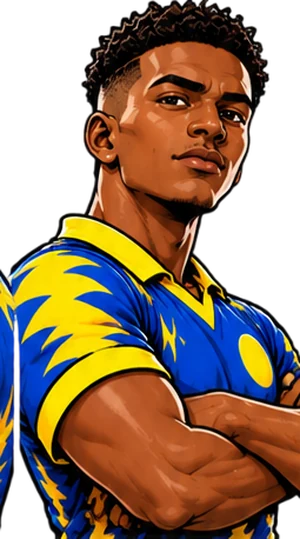
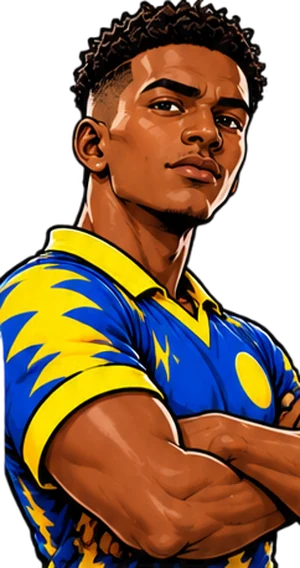
Super League portraits: batch 1 (Aryan Malhotra and nine Pakistani players)
The cutter now splits portraits drawn touching wherever they meet, and takes a single portrait
on its own sheet.

Claude-Session: https://claude.ai/code/session_01NK7tbrKg5PdA6fuyEUPXLd

diff --git a/js/portraits-list.js b/js/portraits-list.js
@@ -1,5 +1,5 @@
 // Players with a painted Super League card portrait (img/cards/portraits/<key>.webp).
 // Made by tools/build_portraits.py.
-export const PORTRAIT_KEYS = ['aamir-lodhi', 'aarav-nair', 'andre-belgrave', 'arjun-iyer', 'ashik-talukder', 'callum-fraser', 'corbin-hayes', 'dev-rana', 'dinesh-wickramasinghe', 'faisal-naqvi', 'fawad-bhatt', 'finn-gallagher', 'hamid-noorzai', 'henry-blackwood', 'jake-thornton', 'james-whitfield', 'jaspreet-dhillon', 'jermaine-alleyne', 'kunal-saini', 'liam-buckley', 'marlon-greaves', 'mitchell-doyle', 'oliver-hartley', 'rakibul-karim', 'rizwan-akram', 'rocky-van-wyk', 'shane-granger', 'siddharth-verma', 'sipho-nkosi', 'sunny-bhatia', 'tariq-mirza', 'tendai-moyo', 'thabo-mthembu', 'thunder-raja', 'yuvraj-sodhi', 'zubair-khan'];
+export const PORTRAIT_KEYS = ['aamir-lodhi', 'aarav-nair', 'andre-belgrave', 'arjun-iyer', 'aryan-malhotra', 'ashik-talukder', 'bilal-akhtar', 'bilawal-gul', 'callum-fraser', 'corbin-hayes', 'danish-haider', 'dev-rana', 'dinesh-wickramasinghe', 'faisal-naqvi', 'faraz-mirza', 'fawad-bhatt', 'finn-gallagher', 'hamid-noorzai', 'hamza-iqbal', 'henry-blackwood', 'jake-thornton', 'james-whitfield', 'jaspreet-dhillon', 'jermaine-alleyne', 'kunal-saini', 'liam-buckley', 'marlon-greaves', 'mitchell-doyle', 'nadir-sheikh', 'oliver-hartley', 'rakibul-karim', 'rizwan-akram', 'rocky-van-wyk', 'saad-ahmed', 'shane-granger', 'shoaib-raza', 'siddharth-verma', 'sipho-nkosi', 'sunny-bhatia', 'tariq-mirza', 'tendai-moyo', 'thabo-mthembu', 'thunder-raja', 'yasir-abbasi', 'yuvraj-sodhi', 'zubair-khan'];
 // how old each painted player looks: his Super League age in season 1
-export const PORTRAIT_AGE = {'thunder-raja': 25, 'jake-thornton': 23, 'dev-rana': 30, 'andre-belgrave': 29, 'sunny-bhatia': 29, 'zubair-khan': 30, 'rocky-van-wyk': 28, 'aamir-lodhi': 28, 'rakibul-karim': 20, 'hamid-noorzai': 27, 'jaspreet-dhillon': 29, 'sipho-nkosi': 27, 'james-whitfield': 31, 'oliver-hartley': 21, 'mitchell-doyle': 28, 'callum-fraser': 26, 'siddharth-verma': 22, 'arjun-iyer': 23, 'dinesh-wickramasinghe': 22, 'thabo-mthembu': 19, 'liam-buckley': 21, 'rizwan-akram': 22, 'finn-gallagher': 22, 'aarav-nair': 23, 'shane-granger': 23, 'kunal-saini': 21, 'faisal-naqvi': 31, 'fawad-bhatt': 30, 'marlon-greaves': 32, 'henry-blackwood': 33, 'yuvraj-sodhi': 30, 'tariq-mirza': 31, 'jermaine-alleyne': 29, 'tendai-moyo': 30, 'ashik-talukder': 29, 'corbin-hayes': 31};
+export const PORTRAIT_AGE = {'thunder-raja': 25, 'jake-thornton': 23, 'dev-rana': 30, 'andre-belgrave': 29, 'sunny-bhatia': 29, 'zubair-khan': 30, 'rocky-van-wyk': 28, 'aamir-lodhi': 28, 'rakibul-karim': 20, 'hamid-noorzai': 27, 'jaspreet-dhillon': 29, 'sipho-nkosi': 27, 'james-whitfield': 31, 'oliver-hartley': 21, 'mitchell-doyle': 28, 'callum-fraser': 26, 'siddharth-verma': 22, 'arjun-iyer': 23, 'dinesh-wickramasinghe': 22, 'thabo-mthembu': 19, 'liam-buckley': 21, 'rizwan-akram': 22, 'finn-gallagher': 22, 'aarav-nair': 23, 'shane-granger': 23, 'kunal-saini': 21, 'faisal-naqvi': 31, 'fawad-bhatt': 30, 'marlon-greaves': 32, 'henry-blackwood': 33, 'yuvraj-sodhi': 30, 'tariq-mirza': 31, 'jermaine-alleyne': 29, 'tendai-moyo': 30, 'ashik-talukder': 29, 'corbin-hayes': 31, 'aryan-malhotra': 28, 'faraz-mirza': 28, 'saad-ahmed': 27, 'yasir-abbasi': 33, 'hamza-iqbal': 19, 'shoaib-raza': 29, 'bilawal-gul': 29, 'danish-haider': 25, 'nadir-sheikh': 35, 'bilal-akhtar': 22};

diff --git a/tools/build_portraits.py b/tools/build_portraits.py
@@ -36,6 +36,10 @@ PICK = {
     'faisal-naqvi': (5, 1, 31), 'fawad-bhatt': (5, 3, 30), 'marlon-greaves': (5, 4, 32), 'henry-blackwood': (5, 5, 33),
     'yuvraj-sodhi': (5, 6, 30), 'tariq-mirza': (5, 8, 31), 'jermaine-alleyne': (6, 2, 29), 'tendai-moyo': (6, 7, 30),
     'ashik-talukder': (6, 9, 29), 'corbin-hayes': (6, 10, 31),
+    # sheet 7: batch 1 of the missing players (its #7 came out wrong and was redrawn as sheet 8)
+    'aryan-malhotra': (7, 1, 28), 'faraz-mirza': (7, 2, 28), 'saad-ahmed': (7, 3, 27), 'yasir-abbasi': (7, 4, 33),
+    'hamza-iqbal': (7, 5, 19), 'shoaib-raza': (7, 6, 29), 'bilawal-gul': (8, 1, 29), 'danish-haider': (7, 8, 25),
+    'nadir-sheikh': (7, 9, 35), 'bilal-akhtar': (7, 10, 22),
 }
 
 
@@ -46,12 +50,26 @@ def pieces(path):
     objs = [s for s in ndi.find_objects(lab) if (s[0].stop - s[0].start) * (s[1].stop - s[1].start) > 15000]
     objs.sort(key=lambda s: (round(s[0].start / 200), s[1].start))
     boxes = [(s[1].start, s[0].start, s[1].stop, s[0].stop) for s in objs]
-    if len(boxes) == 9:  # two portraits drawn touching: split the wide one down its middle
-        i = max(range(4), key=lambda k: boxes[k][2] - boxes[k][0])
-        x0, y0, x1, y1 = boxes[i]
-        cut = {1: 523}.get(i, (x0 + x1) // 2)
-        boxes[i:i + 1] = [(x0, y0, cut, y1), (cut, y0, x1, y1)]
-    assert len(boxes) == 10, (path, len(boxes))
+    # portraits drawn touching come out as one wide box: split it where the fewest columns are
+    # painted (the gap between the two), until every box in the rows of four is one portrait wide
+    op = a[..., 3] > 40
+    W = a.shape[1]
+    if len(boxes) < 4:  # a single portrait on its own
+        boxes = [max(boxes, key=lambda b: (b[2] - b[0]) * (b[3] - b[1]))]
+    out_boxes = [] if len(boxes) > 1 else boxes[:]
+    boxes = boxes if len(boxes) > 1 else []
+    for b in boxes:
+        todo = [b]
+        while todo:
+            x0, y0, x1, y1 = todo.pop()
+            if (x1 - x0) < W * 0.37 or y0 > a.shape[0] * 0.62:
+                out_boxes.append((x0, y0, x1, y1)); continue
+            col = op[y0:y1, x0:x1].mean(0)
+            lo, hi = int((x1 - x0) * 0.3), int((x1 - x0) * 0.7)
+            cut = x0 + lo + int(np.argmin(col[lo:hi]))
+            todo += [(cut, y0, x1, y1), (x0, y0, cut, y1)]
+    boxes = sorted(out_boxes, key=lambda b: (round(b[1] / 200), b[0]))
+    assert len(boxes) in (1, 10), (path, len(boxes))
     out = []
     for b in boxes:
         p = np.array(im.crop(b))
